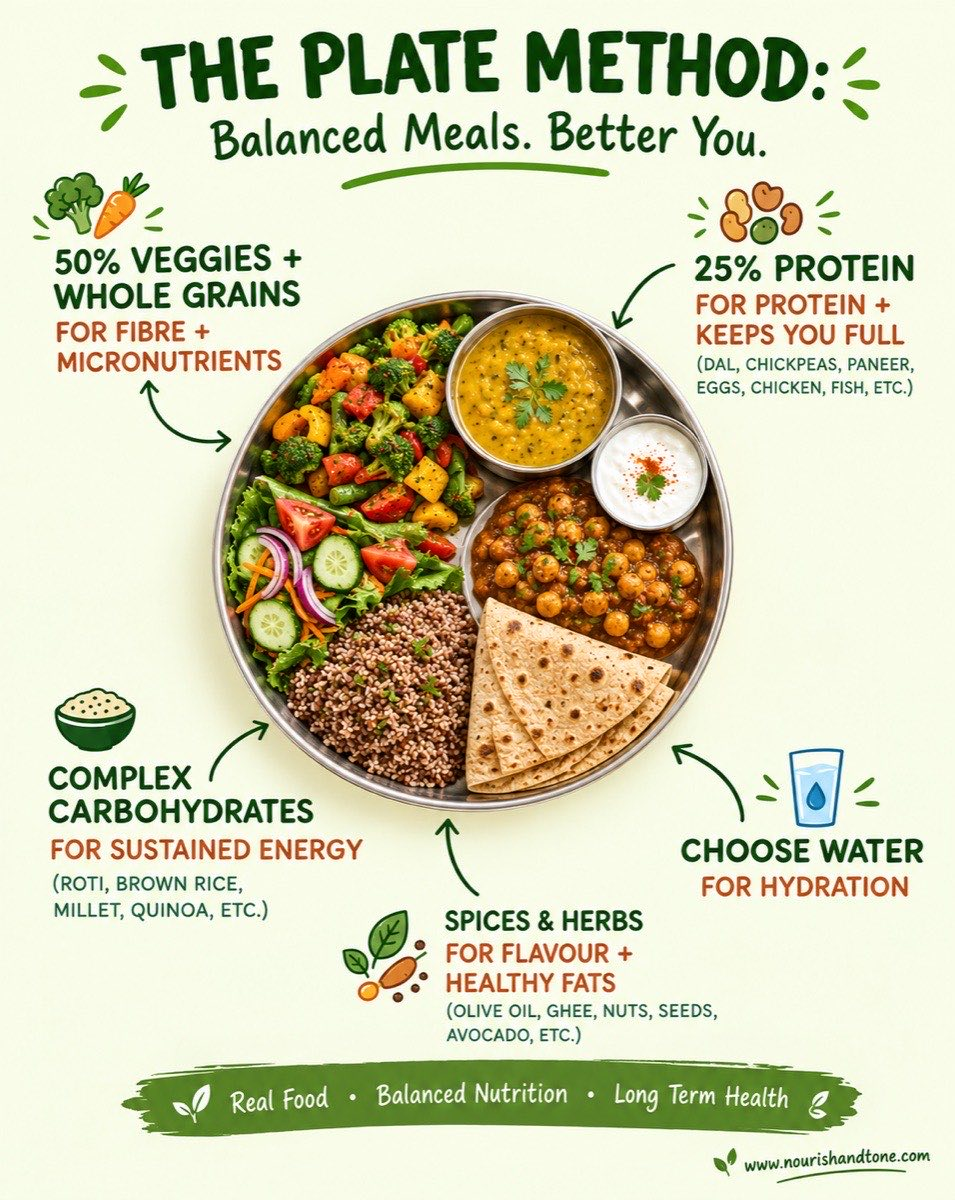
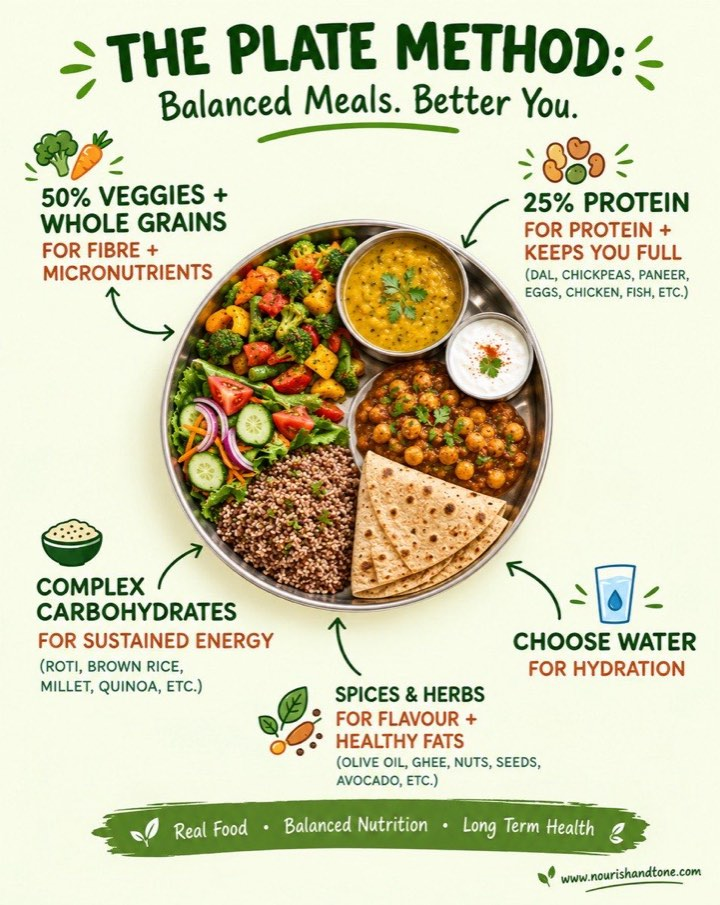
perf: preload JavaScript assets across html pages for faster loading

Changed region(s): [[0.3667, 0.0928, 0.3972, 0.1238]]

diff --git a/index.html b/index.html
@@ -57,6 +57,15 @@
   <link rel="preconnect" href="https://fonts.gstatic.com" crossorigin>
   <link rel="stylesheet" href="https://fonts.googleapis.com/css2?family=Fraunces:wght@400;500;600&family=DM+Sans:wght@400;500;600;700&display=swap" media="print" onload="this.media='all'">
   <noscript><link rel="stylesheet" href="https://fonts.googleapis.com/css2?family=Fraunces:wght@400;500;600&family=DM+Sans:wght@400;500;600;700&display=swap"></noscript>
+  <!-- Fetch all scripts in parallel instead of one blocking round trip at a time -->
+  <link rel="preload" as="script" href="js/data.js">
+  <link rel="preload" as="script" href="js/partials.js">
+  <link rel="preload" as="script" href="js/schema.js">
+  <link rel="preload" as="script" href="js/navigation.js">
+  <link rel="preload" as="script" href="js/animations.js">
+  <link rel="preload" as="script" href="js/main.js">
+  <link rel="preload" as="script" href="js/bmi.js">
+  <link rel="preload" as="script" href="js/testimonials.js">
   <link rel="stylesheet" href="css/style.css">
   <link rel="stylesheet" href="css/responsive.css">
   <link rel="stylesheet" href="css/animations.css">

diff --git a/book-consultation/index.html b/book-consultation/index.html
@@ -56,6 +56,14 @@
   <link rel="preconnect" href="https://fonts.gstatic.com" crossorigin>
   <link rel="stylesheet" href="https://fonts.googleapis.com/css2?family=Fraunces:wght@400;500;600&family=DM+Sans:wght@400;500;600;700&display=swap" media="print" onload="this.media='all'">
   <noscript><link rel="stylesheet" href="https://fonts.googleapis.com/css2?family=Fraunces:wght@400;500;600&family=DM+Sans:wght@400;500;600;700&display=swap"></noscript>
+  <!-- Fetch all scripts in parallel instead of one blocking round trip at a time -->
+  <link rel="preload" as="script" href="../js/data.js">
+  <link rel="preload" as="script" href="../js/partials.js">
+  <link rel="preload" as="script" href="../js/schema.js">
+  <link rel="preload" as="script" href="../js/navigation.js">
+  <link rel="preload" as="script" href="../js/animations.js">
+  <link rel="preload" as="script" href="../js/main.js">
+  <link rel="preload" as="script" href="../js/booking.js">
   <link rel="stylesheet" href="../css/style.css">
   <link rel="stylesheet" href="../css/responsive.css">
   <link rel="stylesheet" href="../css/animations.css">

diff --git a/wellness/index.html b/wellness/index.html
@@ -53,6 +53,14 @@
 <link rel="preconnect" href="https://fonts.gstatic.com" crossorigin>
 <link rel="stylesheet" href="https://fonts.googleapis.com/css2?family=Fraunces:wght@400;500;600&family=DM+Sans:wght@400;500;600;700&display=swap" media="print" onload="this.media='all'">
   <noscript><link rel="stylesheet" href="https://fonts.googleapis.com/css2?family=Fraunces:wght@400;500;600&family=DM+Sans:wght@400;500;600;700&display=swap"></noscript>
+  <!-- Fetch all scripts in parallel instead of one blocking round trip at a time -->
+  <link rel="preload" as="script" href="../js/data.js">
+  <link rel="preload" as="script" href="../js/partials.js">
+  <link rel="preload" as="script" href="../js/schema.js">
+  <link rel="preload" as="script" href="../js/navigation.js">
+  <link rel="preload" as="script" href="../js/animations.js">
+  <link rel="preload" as="script" href="../js/main.js">
+  <link rel="preload" as="script" href="../js/wellness.js">
 <link rel="stylesheet" href="../css/style.css">
 <link rel="stylesheet" href="../css/responsive.css">
 <link rel="stylesheet" href="../css/animations.css">

diff --git a/about/index.html b/about/index.html
@@ -56,6 +56,13 @@
   <link rel="preconnect" href="https://fonts.gstatic.com" crossorigin>
   <link rel="stylesheet" href="https://fonts.googleapis.com/css2?family=Fraunces:wght@400;500;600&family=DM+Sans:wght@400;500;600;700&display=swap" media="print" onload="this.media='all'">
   <noscript><link rel="stylesheet" href="https://fonts.googleapis.com/css2?family=Fraunces:wght@400;500;600&family=DM+Sans:wght@400;500;600;700&display=swap"></noscript>
+  <!-- Fetch all scripts in parallel instead of one blocking round trip at a time -->
+  <link rel="preload" as="script" href="../js/data.js">
+  <link rel="preload" as="script" href="../js/partials.js">
+  <link rel="preload" as="script" href="../js/schema.js">
+  <link rel="preload" as="script" href="../js/navigation.js">
+  <link rel="preload" as="script" href="../js/animations.js">
+  <link rel="preload" as="script" href="../js/main.js">
   <link rel="stylesheet" href="../css/style.css">
   <link rel="stylesheet" href="../css/responsive.css">
   <link rel="stylesheet" href="../css/animations.css">

diff --git a/pricing/index.html b/pricing/index.html
@@ -56,6 +56,13 @@
   <link rel="preconnect" href="https://fonts.gstatic.com" crossorigin>
   <link rel="stylesheet" href="https://fonts.googleapis.com/css2?family=Fraunces:wght@400;500;600&family=DM+Sans:wght@400;500;600;700&display=swap" media="print" onload="this.media='all'">
   <noscript><link rel="stylesheet" href="https://fonts.googleapis.com/css2?family=Fraunces:wght@400;500;600&family=DM+Sans:wght@400;500;600;700&display=swap"></noscript>
+  <!-- Fetch all scripts in parallel instead of one blocking round trip at a time -->
+  <link rel="preload" as="script" href="../js/data.js">
+  <link rel="preload" as="script" href="../js/partials.js">
+  <link rel="preload" as="script" href="../js/schema.js">
+  <link rel="preload" as="script" href="../js/navigation.js">
+  <link rel="preload" as="script" href="../js/animations.js">
+  <link rel="preload" as="script" href="../js/main.js">
   <link rel="stylesheet" href="../css/style.css">
   <link rel="stylesheet" href="../css/responsive.css">
   <link rel="stylesheet" href="../css/animations.css">

diff --git a/blog/index.html b/blog/index.html
@@ -52,6 +52,13 @@
 <link rel="preconnect" href="https://fonts.gstatic.com" crossorigin>
 <link rel="stylesheet" href="https://fonts.googleapis.com/css2?family=Fraunces:wght@400;500;600&family=DM+Sans:wght@400;500;600;700&display=swap" media="print" onload="this.media='all'">
   <noscript><link rel="stylesheet" href="https://fonts.googleapis.com/css2?family=Fraunces:wght@400;500;600&family=DM+Sans:wght@400;500;600;700&display=swap"></noscript>
+  <!-- Fetch all scripts in parallel instead of one blocking round trip at a time -->
+  <link rel="preload" as="script" href="../js/data.js">
+  <link rel="preload" as="script" href="../js/partials.js">
+  <link rel="preload" as="script" href="../js/schema.js">
+  <link rel="preload" as="script" href="../js/navigation.js">
+  <link rel="preload" as="script" href="../js/animations.js">
+  <link rel="preload" as="script" href="../js/main.js">
 <link rel="stylesheet" href="../css/style.css">
 <link rel="stylesheet" href="../css/responsive.css">
 <link rel="stylesheet" href="../css/animations.css">

diff --git a/body-slimming/index.html b/body-slimming/index.html
@@ -52,6 +52,13 @@
 <link rel="preconnect" href="https://fonts.gstatic.com" crossorigin>
 <link rel="stylesheet" href="https://fonts.googleapis.com/css2?family=Fraunces:wght@400;500;600&family=DM+Sans:wght@400;500;600;700&display=swap" media="print" onload="this.media='all'">
   <noscript><link rel="stylesheet" href="https://fonts.googleapis.com/css2?family=Fraunces:wght@400;500;600&family=DM+Sans:wght@400;500;600;700&display=swap"></noscript>
+  <!-- Fetch all scripts in parallel instead of one blocking round trip at a time -->
+  <link rel="preload" as="script" href="../js/data.js">
+  <link rel="preload" as="script" href="../js/partials.js">
+  <link rel="preload" as="script" href="../js/schema.js">
+  <link rel="preload" as="script" href="../js/navigation.js">
+  <link rel="preload" as="script" href="../js/animations.js">
+  <link rel="preload" as="script" href="../js/main.js">
 <link rel="stylesheet" href="../css/style.css">
 <link rel="stylesheet" href="../css/responsive.css">
 <link rel="stylesheet" href="../css/animations.css">

diff --git a/contact/index.html b/contact/index.html
@@ -52,6 +52,13 @@
 <link rel="preconnect" href="https://fonts.gstatic.com" crossorigin>
 <link rel="stylesheet" href="https://fonts.googleapis.com/css2?family=Fraunces:wght@400;500;600&family=DM+Sans:wght@400;500;600;700&display=swap" media="print" onload="this.media='all'">
   <noscript><link rel="stylesheet" href="https://fonts.googleapis.com/css2?family=Fraunces:wght@400;500;600&family=DM+Sans:wght@400;500;600;700&display=swap"></noscript>
+  <!-- Fetch all scripts in parallel instead of one blocking round trip at a time -->
+  <link rel="preload" as="script" href="../js/data.js">
+  <link rel="preload" as="script" href="../js/partials.js">
+  <link rel="preload" as="script" href="../js/schema.js">
+  <link rel="preload" as="script" href="../js/navigation.js">
+  <link rel="preload" as="script" href="../js/animations.js">
+  <link rel="preload" as="script" href="../js/main.js">
 <link rel="stylesheet" href="../css/style.css">
 <link rel="stylesheet" href="../css/responsive.css">
 <link rel="stylesheet" href="../css/animations.css">

diff --git a/facial-aesthetics/index.html b/facial-aesthetics/index.html
@@ -52,6 +52,13 @@
 <link rel="preconnect" href="https://fonts.gstatic.com" crossorigin>
 <link rel="stylesheet" href="https://fonts.googleapis.com/css2?family=Fraunces:wght@400;500;600&family=DM+Sans:wght@400;500;600;700&display=swap" media="print" onload="this.media='all'">
   <noscript><link rel="stylesheet" href="https://fonts.googleapis.com/css2?family=Fraunces:wght@400;500;600&family=DM+Sans:wght@400;500;600;700&display=swap"></noscript>
+  <!-- Fetch all scripts in parallel instead of one blocking round trip at a time -->
+  <link rel="preload" as="script" href="../js/data.js">
+  <link rel="preload" as="script" href="../js/partials.js">
+  <link rel="preload" as="script" href="../js/schema.js">
+  <link rel="preload" as="script" href="../js/navigation.js">
+  <link rel="preload" as="script" href="../js/animations.js">
+  <link rel="preload" as="script" href="../js/main.js">
 <link rel="stylesheet" href="../css/style.css">
 <link rel="stylesheet" href="../css/responsive.css">
 <link rel="stylesheet" href="../css/animations.css">

diff --git a/faq/index.html b/faq/index.html
@@ -52,6 +52,13 @@
 <link rel="preconnect" href="https://fonts.gstatic.com" crossorigin>
 <link rel="stylesheet" href="https://fonts.googleapis.com/css2?family=Fraunces:wght@400;500;600&family=DM+Sans:wght@400;500;600;700&display=swap" media="print" onload="this.media='all'">
   <noscript><link rel="stylesheet" href="https://fonts.googleapis.com/css2?family=Fraunces:wght@400;500;600&family=DM+Sans:wght@400;500;600;700&display=swap"></noscript>
+  <!-- Fetch all scripts in parallel instead of one blocking round trip at a time -->
+  <link rel="preload" as="script" href="../js/data.js">
+  <link rel="preload" as="script" href="../js/partials.js">
+  <link rel="preload" as="script" href="../js/schema.js">
+  <link rel="preload" as="script" href="../js/navigation.js">
+  <link rel="preload" as="script" href="../js/animations.js">
+  <link rel="preload" as="script" href="../js/main.js">
 <link rel="stylesheet" href="../css/style.css">
 <link rel="stylesheet" href="../css/responsive.css">
 <link rel="stylesheet" href="../css/animations.css">

diff --git a/results/index.html b/results/index.html
@@ -52,6 +52,13 @@
 <link rel="preconnect" href="https://fonts.gstatic.com" crossorigin>
 <link rel="stylesheet" href="https://fonts.googleapis.com/css2?family=Fraunces:wght@400;500;600&family=DM+Sans:wght@400;500;600;700&display=swap" media="print" onload="this.media='all'">
   <noscript><link rel="stylesheet" href="https://fonts.googleapis.com/css2?family=Fraunces:wght@400;500;600&family=DM+Sans:wght@400;500;600;700&display=swap"></noscript>
+  <!-- Fetch all scripts in parallel instead of one blocking round trip at a time -->
+  <link rel="preload" as="script" href="../js/data.js">
+  <link rel="preload" as="script" href="../js/partials.js">
+  <link rel="preload" as="script" href="../js/schema.js">
+  <link rel="preload" as="script" href="../js/navigation.js">
+  <link rel="preload" as="script" href="../js/animations.js">
+  <link rel="preload" as="script" href="../js/main.js">
 <link rel="stylesheet" href="../css/style.css">
 <link rel="stylesheet" href="../css/responsive.css">
 <link rel="stylesheet" href="../css/animations.css">

diff --git a/services/index.html b/services/index.html
@@ -52,6 +52,13 @@
 <link rel="preconnect" href="https://fonts.gstatic.com" crossorigin>
 <link rel="stylesheet" href="https://fonts.googleapis.com/css2?family=Fraunces:wght@400;500;600&family=DM+Sans:wght@400;500;600;700&display=swap" media="print" onload="this.media='all'">
   <noscript><link rel="stylesheet" href="https://fonts.googleapis.com/css2?family=Fraunces:wght@400;500;600&family=DM+Sans:wght@400;500;600;700&display=swap"></noscript>
+  <!-- Fetch all scripts in parallel instead of one blocking round trip at a time -->
+  <link rel="preload" as="script" href="../js/data.js">
+  <link rel="preload" as="script" href="../js/partials.js">
+  <link rel="preload" as="script" href="../js/schema.js">
+  <link rel="preload" as="script" href="../js/navigation.js">
+  <link rel="preload" as="script" href="../js/animations.js">
+  <link rel="preload" as="script" href="../js/main.js">
 <link rel="stylesheet" href="../css/style.css">
 <link rel="stylesheet" href="../css/responsive.css">
 <link rel="stylesheet" href="../css/animations.css">
